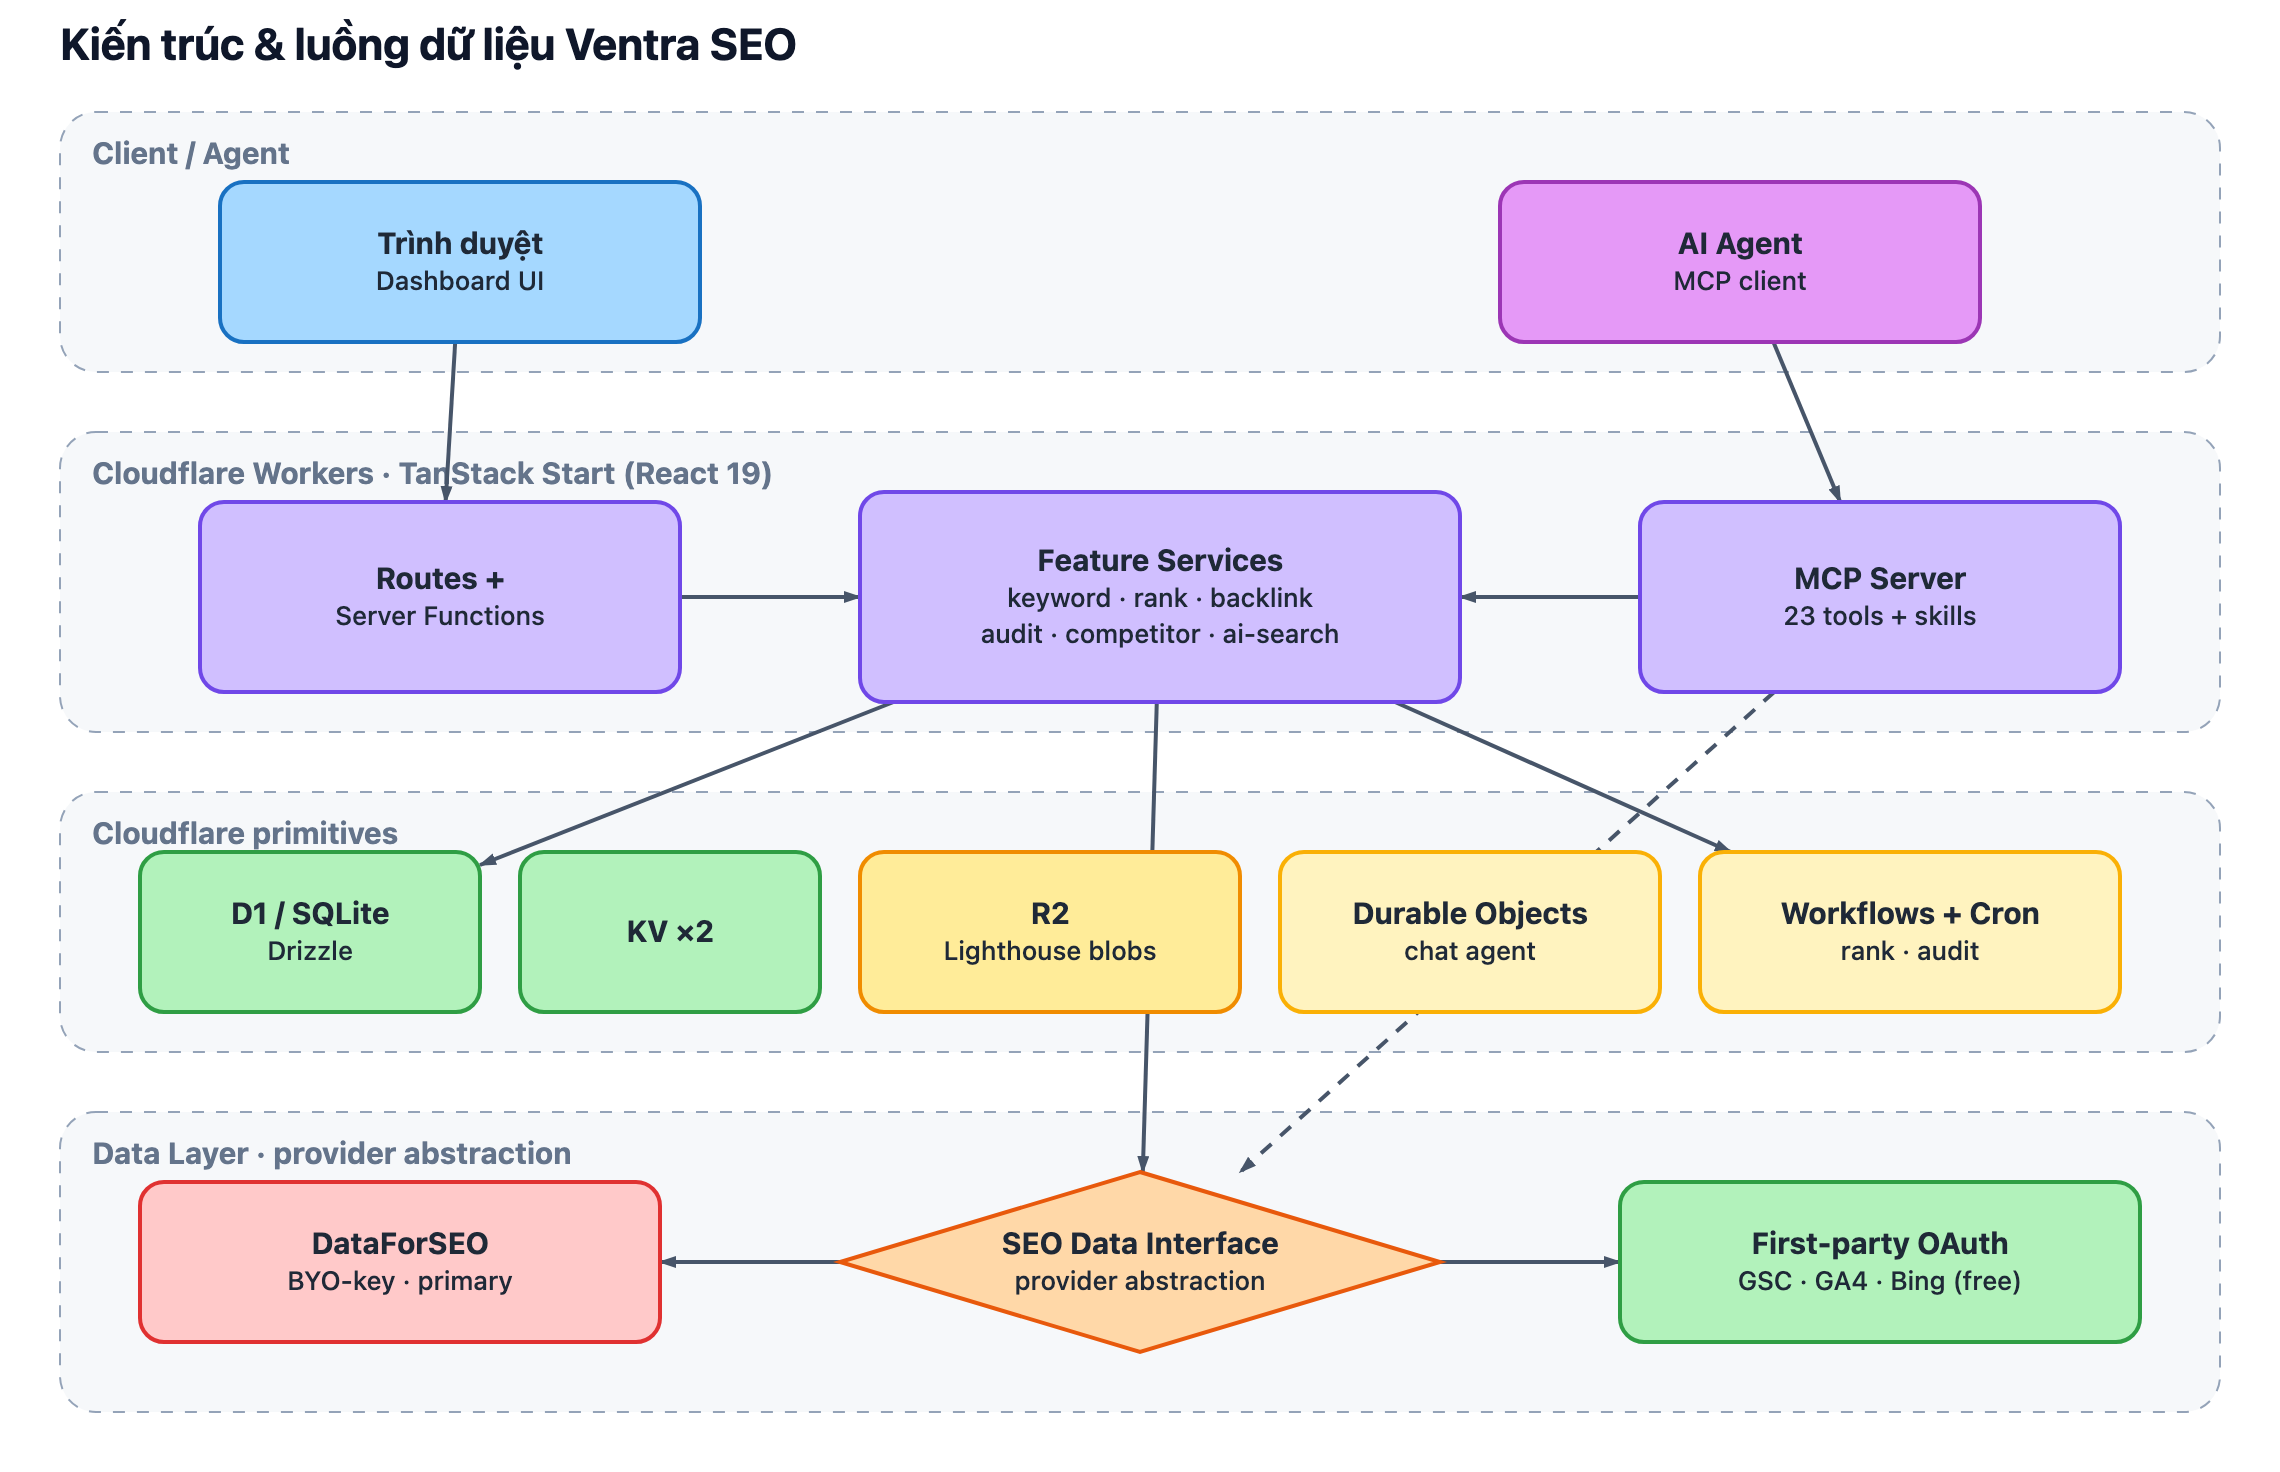
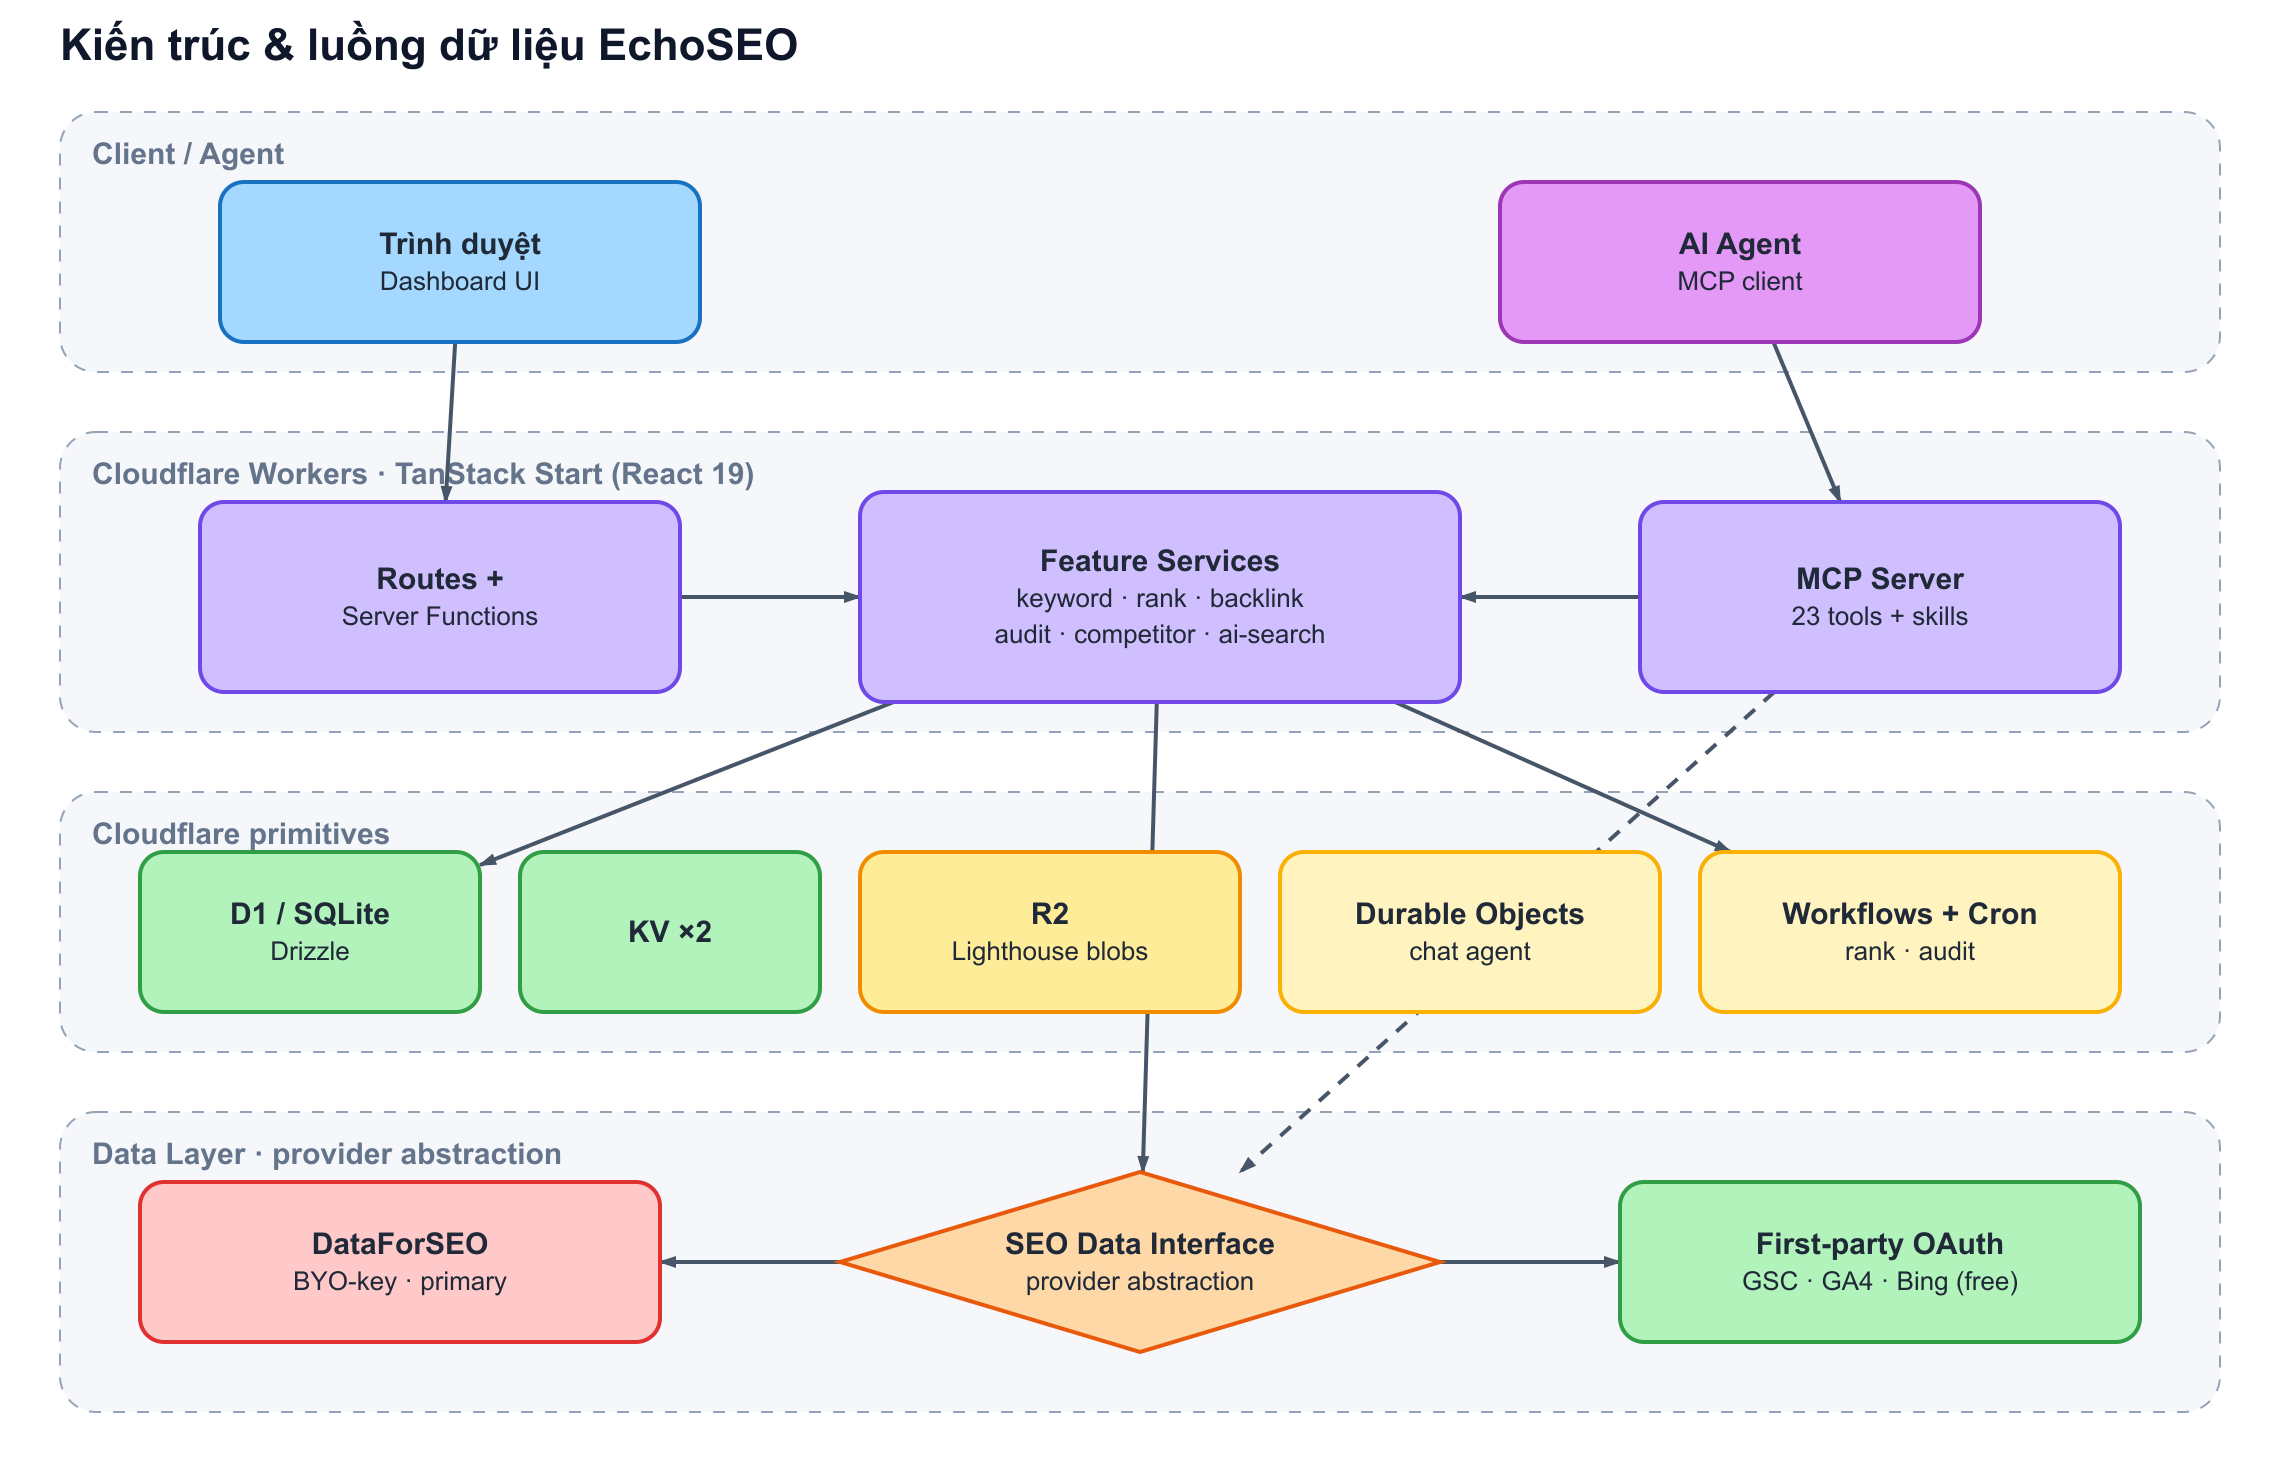
docs(diagrams): rebrand the diagram generators to EchoSEO
- build_diagrams.py and build_onepager.py still wrote "Ventra SEO"/"Ventra", so a rerun would undo the EchoSEO rebrand in the HTML.
- Rerunning both generators followed by prettier now reproduces the committed HTML byte-for-byte.
- Diagrams 01, 04, 05 regenerated (.excalidraw/.svg). PNGs re-rendered from the SVG at 2x with rsvg-convert, same dimensions as before.
- Paths kept: ventra-seo-*.html filenames and the research-summary report path.

diff --git a/docs/diagrams/build_onepager.py b/docs/diagrams/build_onepager.py
@@ -1,5 +1,5 @@
 #!/usr/bin/env python3
-"""Build the Ventra SEO executive one-pager (self-contained HTML).
+"""Build the EchoSEO executive one-pager (self-contained HTML).
 
 Reads the 5 diagram SVGs from this folder and inlines them (offline, no CDN),
 adds detailed Vietnamese business narrative + charts drawn in pure SVG/CSS.
@@ -131,8 +131,8 @@ PRICING = bars([
     ("Semrush", 139.95, "#f87171"),
     ("Moz", 99, "#fbbf24"),
     ("Ubersuggest", 12, "#60a5fa"),
-    ("Ventra (self-host)", 0, "#34d399"),
-], unit="$", note="Giá thuê bao/tháng của các suite. Ventra self-host miễn phí — người dùng chỉ trả chi phí dữ liệu thực dùng (BYO-key).")
+    ("EchoSEO (self-host)", 0, "#34d399"),
+], unit="$", note="Giá thuê bao/tháng của các suite. EchoSEO self-host miễn phí — người dùng chỉ trả chi phí dữ liệu thực dùng (BYO-key).")
 
 COST = bars([
     ("SerpApi (~)", 7.0, "#f87171"),
@@ -144,13 +144,13 @@ TMPL = """<!DOCTYPE html>
 <head>
 <meta charset="UTF-8"/>
 <meta name="viewport" content="width=device-width, initial-scale=1.0"/>
-<title>Ventra SEO — Tầm nhìn & Định hướng</title>
+<title>EchoSEO — Tầm nhìn & Định hướng</title>
 <style>%%CSS%%</style>
 </head>
 <body>
 <header class="hero"><div class="wrap">
   <div class="badge">Tài liệu định hướng · 2026-07-03 · Bản nháp nội bộ</div>
-  <h1>Ventra SEO</h1>
+  <h1>EchoSEO</h1>
   <p class="lead">Nền tảng SEO <b>mở</b> và <b>agent-native</b> — tự host được, thay thế Semrush/Ahrefs, xây trên nền mã nguồn mở đã trưởng thành.</p>
   <p class="oneliner">"Nền tảng SEO mở không chỉ trả lời câu hỏi — nó tự làm việc và chứng minh kết quả bằng chính dữ liệu Search Console của bạn."</p>
 </div></header>
@@ -215,7 +215,7 @@ TMPL = """<!DOCTYPE html>
 
 <section id="solution">
   <p class="kicker">03 · Giải pháp</p>
-  <h2>Ventra: dashboard mạnh + lớp agent tự làm việc</h2>
+  <h2>EchoSEO: dashboard mạnh + lớp agent tự làm việc</h2>
   <p class="sub">Đầy đủ nghiệp vụ SEO cốt lõi trong một sản phẩm, với hai "mặt": bảng điều khiển trực quan cho người làm, và lớp AI-agent tự động hoá phần lặp đi lặp lại — cân bằng, cả hai đều là công dân hạng nhất.</p>
   <table>
     <thead><tr><th>Nhóm tính năng</th><th>MVP</th><th>V1</th><th>Sau</th></tr></thead>
@@ -233,7 +233,7 @@ TMPL = """<!DOCTYPE html>
   <p class="kicker">04 · Lợi thế cạnh tranh</p>
   <h2>"Agent-native" chưa đủ — hào nằm ở read-WRITE + dữ liệu + kinh tế mở</h2>
   <table>
-    <thead><tr><th>Tiêu chí</th><th>Semrush / Ahrefs</th><th>OpenSEO (nền)</th><th>Ventra</th></tr></thead>
+    <thead><tr><th>Tiêu chí</th><th>Semrush / Ahrefs</th><th>OpenSEO (nền)</th><th>EchoSEO</th></tr></thead>
     <tbody>
       <tr><td>Agent truy cập</td><td>MCP chỉ đọc</td><td>MCP chỉ đọc</td><td><strong>Vòng lặp read-WRITE</strong></td></tr>
       <tr><td>Hợp nhất dữ liệu GSC/GA4</td><td>Hạn chế</td><td>Chỉ GSC</td><td><strong>GSC+GA4+Bing trong ngữ cảnh agent</strong></td></tr>
@@ -270,7 +270,7 @@ TMPL = """<!DOCTYPE html>
 
 <section id="agent">
   <p class="kicker">07 · Cách agent hoạt động</p>
-  <h2>Vòng lặp read-WRITE — trái tim khác biệt của Ventra</h2>
+  <h2>Vòng lặp read-WRITE — trái tim khác biệt của EchoSEO</h2>
   <div class="diagram">%%SVG_AGENT%%</div>
   <p class="sub" style="margin-top:14px">Và bên dưới, mỗi truy vấn đi qua lớp cache-first để tối ưu chi phí dữ liệu:</p>
   <div class="diagram">%%SVG_REQ%%</div>
@@ -296,7 +296,7 @@ TMPL = """<!DOCTYPE html>
   <table>
     <thead><tr><th>Mốc</th><th>Giai đoạn</th><th>Hoàn thành khi</th></tr></thead>
     <tbody>
-      <tr><td><strong>M0 · Ventra chạy</strong></td><td>Phase 0 (1–3 tuần)</td><td>App đổi thương hiệu, tự host trên Cloudflare, song ngữ, đã track upstream</td></tr>
+      <tr><td><strong>M0 · EchoSEO chạy</strong></td><td>Phase 0 (1–3 tuần)</td><td>App đổi thương hiệu, tự host trên Cloudflare, song ngữ, đã track upstream</td></tr>
       <tr><td><strong>M1 · MVP</strong></td><td>~4–8 tuần</td><td>Tính năng kế thừa + lớp agent + VN/EN + quick-wins; phát hành mã nguồn mở</td></tr>
       <tr><td><strong>M2 · Nội dung + audit</strong></td><td>V1</td><td>Engine tối ưu nội dung + audit sâu theo lịch</td></tr>
       <tr><td><strong>M3 · Bật doanh thu</strong></td><td>V1</td><td>Managed Cloud PAYG (beta) + báo cáo white-label</td></tr>
@@ -315,11 +315,11 @@ TMPL = """<!DOCTYPE html>
 
     <div class="phase" style="border-left-color:#e8590c">
       <div class="phase-head"><span class="pnum">PHASE 0</span><h4>Fork &amp; Foundation</h4><span class="phase-dur">1–3 tuần · M0</span></div>
-      <p class="goal">Mục tiêu: một Ventra chạy được — đổi thương hiệu, song ngữ, tự host trên Cloudflare, sẵn "khe" cho tính năng sau.</p>
+      <p class="goal">Mục tiêu: một EchoSEO chạy được — đổi thương hiệu, song ngữ, tự host trên Cloudflare, sẵn "khe" cho tính năng sau.</p>
       <ul class="worklist">
         <li>Fork OpenSEO + track remote <code>upstream</code></li>
         <li>Dựng hạ tầng Cloudflare (D1/KV/R2/DO/Workflows) + deploy self-host</li>
-        <li>Đổi thương hiệu → Ventra (UI, MCP tools, skills, web, wrangler)</li>
+        <li>Đổi thương hiệu → EchoSEO (UI, MCP tools, skills, web, wrangler)</li>
         <li>Tách/ẩn coupling hosted (PostHog/Loops/Reddit/Autumn) sau cờ <code>hosted</code></li>
         <li>Dựng khung i18n VN + EN, tách chuỗi, seed bản dịch Việt</li>
         <li>Thêm lớp provider-abstraction cho DataForSEO</li>
@@ -405,7 +405,7 @@ TMPL = """<!DOCTYPE html>
   <h2>Đề xuất: đồng thuận khởi động Phase 0</h2>
   <div class="ask">
     <p>Chúng ta có một cơ hội hiếm: xây một nền tảng SEO thế hệ mới với <b>rủi ro thấp và tốc độ cao</b>, nhờ đứng trên một nền mã nguồn mở đã trưởng thành và một khác biệt hoá rõ ràng (agent read-write + dữ liệu người dùng + mở + song ngữ).</p>
-    <p style="margin-bottom:0"><b>Định hướng đề xuất:</b> khởi động <b>Phase 0 (Fork &amp; Foundation, 1–3 tuần)</b> để đạt mốc M0 — một Ventra chạy được, đổi thương hiệu, song ngữ, tự host trên Cloudflare — rồi cùng đánh giá lại trước khi cam kết nguồn lực cho MVP.</p>
+    <p style="margin-bottom:0"><b>Định hướng đề xuất:</b> khởi động <b>Phase 0 (Fork &amp; Foundation, 1–3 tuần)</b> để đạt mốc M0 — một EchoSEO chạy được, đổi thương hiệu, song ngữ, tự host trên Cloudflare — rồi cùng đánh giá lại trước khi cam kết nguồn lực cho MVP.</p>
     <ul class="clean" style="margin-top:14px">
       <li>Cần chuẩn bị: fork OpenSEO, tài khoản Cloudflare, một API key DataForSEO để thử.</li>
       <li>Quyết định đã chốt: fork trên Cloudflare · open-core prosumer · song ngữ VN+EN · posture cân bằng dashboard + agent.</li>
@@ -414,7 +414,7 @@ TMPL = """<!DOCTYPE html>
 </section>
 
 </main>
-<footer>Ventra SEO · tài liệu định hướng nội bộ · dựa trên nghiên cứu tại
+<footer>EchoSEO · tài liệu định hướng nội bộ · dựa trên nghiên cứu tại
 <code>plans/reports/research-summary-260703-1047-ventra-seo.md</code> ·
 sơ đồ: <code>docs/diagrams/*.excalidraw</code></footer>
 </body>

diff --git a/docs/diagrams/build_diagrams.py b/docs/diagrams/build_diagrams.py
@@ -1,5 +1,5 @@
 #!/usr/bin/env python3
-"""Build Ventra SEO flow diagrams.
+"""Build EchoSEO flow diagrams.
 
 One abstract scene model -> two outputs:
   * `<name>.excalidraw`  editable Excalidraw canvas (open on excalidraw.com)
@@ -227,7 +227,7 @@ def _ex_arrow(seed, p1, p2, dashed=False):
 # ================= Diagrams =================
 def d_architecture() -> Scene:
     s = Scene()
-    s.text(40, 34, "Kiến trúc & luồng dữ liệu Ventra SEO", 22, "#0f172a", bold=True)
+    s.text(40, 34, "Kiến trúc & luồng dữ liệu EchoSEO", 22, "#0f172a", bold=True)
     # zones
     s.zone(40, 60, 1080, 130, "Client / Agent")
     s.zone(40, 220, 1080, 150, "Cloudflare Workers · TanStack Start (React 19)")
@@ -306,7 +306,7 @@ def d_phase0() -> Scene:
     s = Scene()
     s.text(40, 34, "Luồng thực thi Phase 0 (fork → M0)", 22, "#0f172a", bold=True)
     p1 = s.box(430, 90, 300, 90, ["P01 · Fork + Deploy", "đường găng"], "decision")
-    p2 = s.box(120, 260, 250, 90, ["P02 · Rebrand", "→ Ventra"], "backend")
+    p2 = s.box(120, 260, 250, 90, ["P02 · Rebrand", "→ EchoSEO"], "backend")
     p3 = s.box(455, 260, 250, 90, ["P03 · Strip / gate", "hosted couplings"], "backend")
     p5 = s.box(790, 260, 250, 90, ["P05 · Provider", "abstraction seam"], "backend")
     p4 = s.box(120, 430, 250, 90, ["P04 · i18n", "VN + EN"], "ui")
@@ -325,7 +325,7 @@ def d_funnel() -> Scene:
     seats = s.box(400, 430, 260, 90, ["Team / Pro seats", "collaboration"], "backend")
     s.arrow(free, managed); s.arrow(managed, seats)
     s.text(840, 140, "Cộng đồng + skill marketplace", 14, "#64748b")
-    s.text(840, 310, "Ventra quản lý DataForSEO + OAuth", 14, "#64748b")
+    s.text(840, 310, "EchoSEO quản lý DataForSEO + OAuth", 14, "#64748b")
     s.text(690, 480, "Không khoá dữ liệu thô sau seats", 14, "#64748b")
     return s
 
@@ -393,9 +393,9 @@ def _write_html(svgs: dict):
     doc = (
         "<!DOCTYPE html>\n<html lang=\"vi\">\n<head>\n<meta charset=\"UTF-8\"/>\n"
         "<meta name=\"viewport\" content=\"width=device-width, initial-scale=1.0\"/>\n"
-        "<title>Ventra SEO — Kiến trúc & Luồng (Excalidraw)</title>\n<style>" + css + "</style>\n</head>\n<body>\n"
+        "<title>EchoSEO — Kiến trúc & Luồng (Excalidraw)</title>\n<style>" + css + "</style>\n</head>\n<body>\n"
         "<header class=\"hero\"><div class=\"badge\">Excalidraw · 2026-07-03 · Foundation</div>"
-        "<h1>Ventra SEO — Kiến trúc &amp; Các luồng đi</h1>"
+        "<h1>EchoSEO — Kiến trúc &amp; Các luồng đi</h1>"
         "<p class=\"tagline\">Sơ đồ Excalidraw (SVG offline) cho kiến trúc hệ thống, luồng xử lý, vòng lặp agent, "
         "kế hoạch Phase 0 và mô hình kinh doanh. File <code>.excalidraw</code> nguồn nằm trong <code>docs/diagrams/</code>.</p></header>\n"
         "<nav class=\"toc\"><ul>" + nav + "</ul></nav>\n<main>\n" + "\n".join(secs) + "\n</main>\n"
